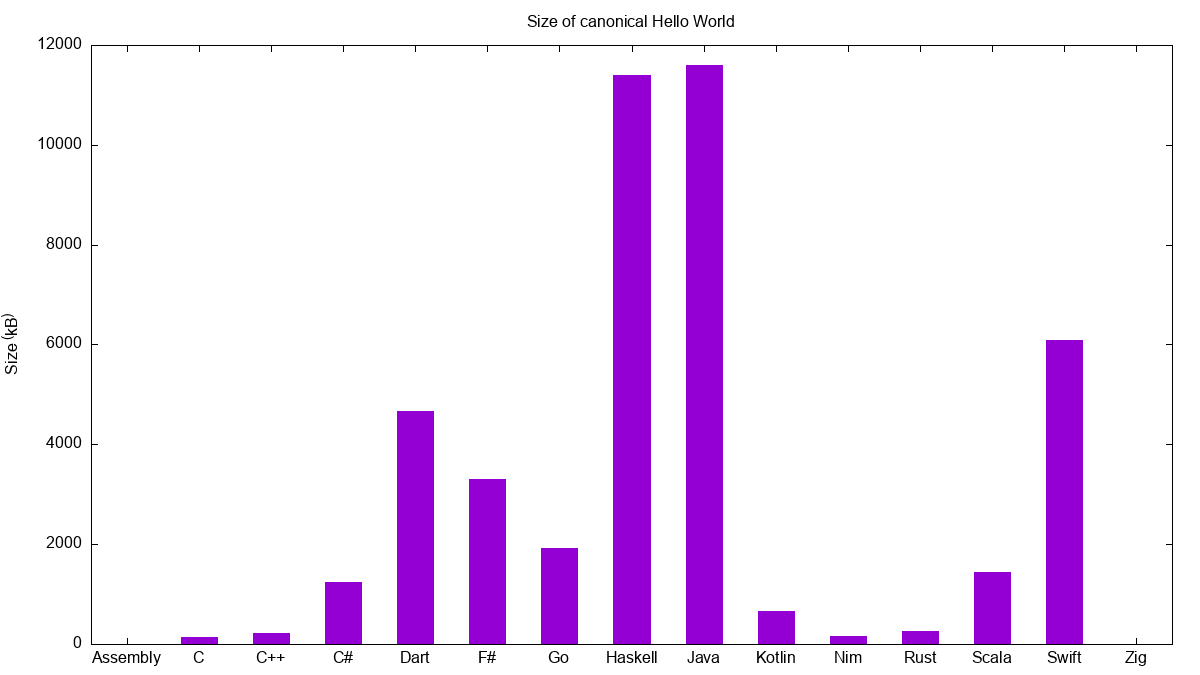
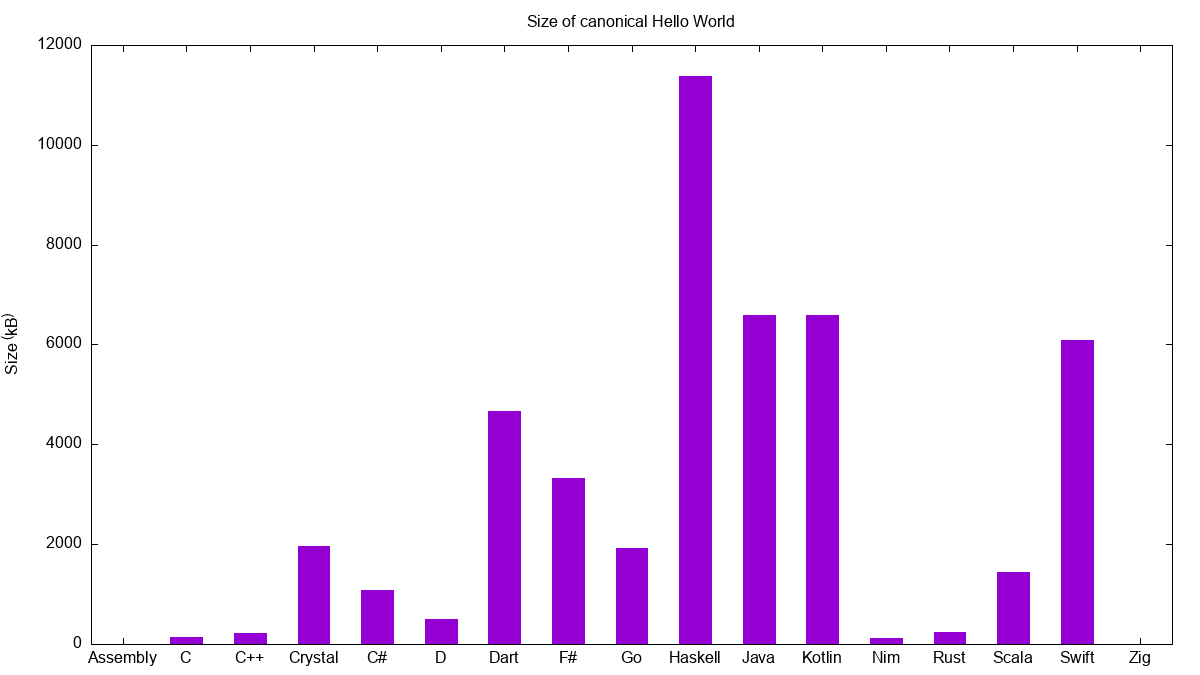
Round 3

Changed region(s): [[0.0617, 0.0933, 0.9558, 0.9956]]

diff --git a/README.md b/README.md
@@ -4,27 +4,29 @@ This repo consists of a set of canonical hello world programs in multiple langua
 
 Everything is open source - inspect how the data is generated by the GitHub Action by looking at the [action definition](.github/workflows/ci.yml) and inspecting the logs.
 
-# Round 2 results
+# Round 3 results
 
-Round 2 was [carried out](https://github.com/MichalStrehovsky/sizegame/actions/runs/5035954920) on May 21 2023. Binaries are [here](https://github.com/MichalStrehovsky/sizegame/releases/tag/round-002).
+Round 3 was [carried out](https://github.com/MichalStrehovsky/sizegame/actions/runs/5640167628) on July 24 2023. Binaries are [here](https://github.com/MichalStrehovsky/sizegame/releases/tag/round-003).
 
-Rank | Language | Size (kB) | Compiler | Notes
----- | -------- | ---- | -------- | -----
-1 | Assembly | 2 | Microsoft Macro Assembler Version 14.36.32532.0 |  
-2 | Zig | 5 | 0.11.0-dev.3222+7077e90b3 |  
-3 | C | 135 | Microsoft C/C++ Optimizing Compiler Version 19.36.32532 for x64 |  
-4 | Nim | 161 | Nim Compiler Version 1.6.12 [Windows: amd64] |  
-5 | C++ | 230 | Microsoft C/C++ Optimizing Compiler Version 19.36.32532 for x64 |  
-6 | Rust | 254 | rustc 1.69.0 (84c898d65 2023-04-16) |  
-7 | Kotlin | 665 | kotlinc-native 1.18.10 |  
-8 | C# | 1234 | 8.0.100-preview.4.23260.5 |  
-9 | Scala | 1434 | Scala 3.2.2 Scala-native 0.4.10 |  
-10 | Go | 1928 | go version go1.20.4 windows/amd64 |  
-11 | F# | 3303 | 8.0.100-preview.1.23115.2 |  
-12 | Dart | 4669 | Dart SDK version: 3.0.1 (stable) (Tue May 16 11:57:19 2023 +0000) on "windows_x64" |  
-13 | Swift | 6093 | compnerd.org Swift version 5.8 (swift-5.8-RELEASE) | Includes: swiftCore.dll, vcruntime140.dll, vcruntime140_1.dll, msvcp140.dll 
-14 | Haskell | 11409 | The Glorious Glasgow Haskell Compilation System, version 9.6.1 |  
-15 | Java | 11606 | GraalVM 22.3.2 Java 17 CE (Java Version 17.0.7+7-jvmci-22.3-b18) | Includes vcruntime140.dll 
+Language | Size (kB) | Compiler | Notes
+-------- | ---- | -------- | -----
+Assembly | 2 | Microsoft Macro Assembler Version 14.35.32217.1 |  
+Zig | 5 | 0.11.0-dev.4191+1bf16b172 |  
+Nim | 123 | Nim Compiler Version 1.6.14 [Windows: amd64] |  
+C | 135 | Microsoft C/C++ Optimizing Compiler Version 19.35.32217.1 for x64 |  
+C++ | 230 | Microsoft C/C++ Optimizing Compiler Version 19.35.32217.1 for x64 |  
+Rust | 250 | rustc 1.71.0 (8ede3aae2 2023-07-12) |  
+D | 491 | DMD64 D Compiler v2.104.2-dirty |  
+C# | 1087 | 8.0.100-preview.6.23330.14 |  
+Scala | 1435 | Scala 3.2.2 Scala-native 0.4.10 |  
+Go | 1928 | go version go1.20.6 windows/amd64 |  
+Crystal | 1964 | Crystal 1.9.2 [1908c81] (2023-07-19) |  
+F# | 3319 | 8.0.100-preview.6.23330.14 |  
+Dart | 4669 | Dart SDK version: 3.0.6 (stable) (Tue Jul 11 18:49:07 2023 +0000) on "windows_x64" |  
+Swift | 6100 | compnerd.org Swift version 5.8.1 (swift-5.8.1-RELEASE) | Includes: swiftCore.dll, vcruntime140.dll, vcruntime140_1.dll, msvcp140.dll 
+Java | 6586 | native-image 17.0.8 2023-07-18 | Includes vcruntime140.dll 
+Kotlin | 6594 | kotlinc-jvm 1.8.10 | Includes vcrtuntime140.dll, AOT compiled with GraalVM, same version as the Java benchmark 
+Haskell | 11388 | The Glorious Glasgow Haskell Compilation System, version 9.6.2 |  
 
 ![The above table presented as a bar chart](report.png)
 
